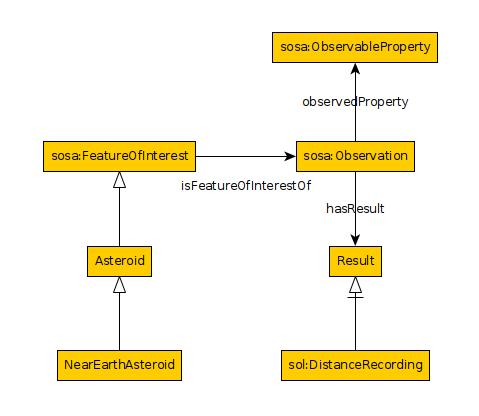
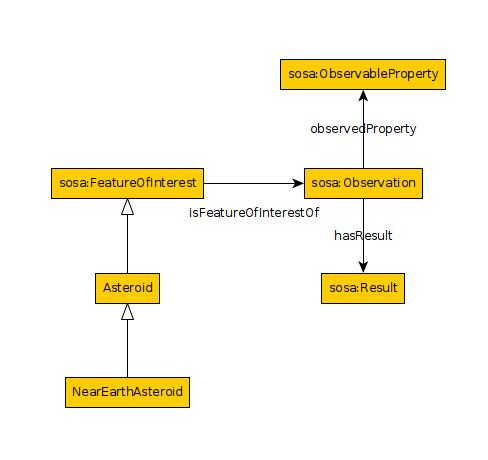
keynotions typo, updated asteroidtype as an observation, TODO:  Observable-Property as observations

Changed region(s): [[0.0877, 0.0625, 0.9353, 0.9375], [0.5846, 0.8125, 0.9061, 0.9375]]

diff --git a/Deliverables/key-notions.md b/Deliverables/key-notions.md
@@ -5,13 +5,13 @@
 The domain of space objects are broken into three subcategories: Artificial Space Objects, Space Weather Phenomena, and Natural Space Objects.  Asteroids exist as a Natural Space Object where object can be further defined as a material object.  An Asteroid is represented by NASA as an object that orbits the sun of the Sol Solar System measuring 33 feet (10 meters) to 329 miles (530 kilometers).  For the SOL of Life, the only celestial body to be concerned with is Asteroid; therefore, the derived understanding begins with an OWL Thing consisting of multiple properties; such as, labeled naming conventions and quantitative measurable components of velocity, semi-major axis, and minimum orbit intersection distance.  Researchers have also predicted properties that benefit exomining operations such as the average profit gained after a mining excavation with consideration of the available valuable materials.  A subsumption is made for Asteroids into Near-Earth Asteroids when their semi-major axis measurement is within a threshold.  The SOSA pattern best reflects the usage of SOL of Life's knowledge graph with respect to the layer of Observations. Asteroids can be represented as a Feature of Interest with an Observation that has Observable Properties.  
 
 ###  ObservableProperty  
-Data that is represented by an Asteroids can be described as Observations from the SOSA pattern which consists of the property that describes the observation along with the value attached.  The description of the property follows SOSA's ObservableProperty pattern, and the value follows SOSA's Result pattern.  With that in mind, the measurable data; such as, mass, velocity, and SMASII Classification, are represnted as an instance of a ObservableProperty.
+Data that is represented by Asteroids can be described as Observations from the SOSA pattern which consists of the property that describes the observation along with the quantifiable value.  The description of the property follows SOSA's ObservableProperty pattern, and the value follows SOSA's Result pattern.  With that in mind, the measurable data; such as, mass, velocity, and SMASII Classification, are represented as an instance of an Observation.
 
-###  DistanceRecording as an ObservableProperty  
+###  DistanceRecording as an Observation  
 The end-goal of SOL of Life is to provide insight at a specific point of time for whether an Asteroid is within a means of distance for exomining companies to travel to for mineral extraction operations.  As such, the spatial coordinates of an Asteroid is less important than the actual distance from Earth, which acts as a baseline for exomining operations.  The distance from Earth is collected every quarter in a 10 year range.  
 
-###  AsteroidType as an ObservableProperty
-The derived elemental composition of an Asteroid is a prediction based from infrared readings as traveling to each individual asteroid remains an unrealistic task.  As such, infrared reflections and readings are compared for similarities against known Earth elements and denote the components from the Asteroid's surface.  The infrared data has been collected to formulate classifications based on similarity of readings.  SOL of Life utilizes the SMASS classification labels in order to connect an Asteroid to the predicted elemental composition.
+###  AsteroidType as an Observation
+The derived elemental composition of an Asteroid is a prediction based from infrared readings as traveling to each individual asteroid remains an unrealistic task.  As such, infrared reflections and readings are compared for similarities against known Earth elements and denote the components from the Asteroid's surface.  The infrared data has been collected to formulate classifications among clusters of all asteroids for similarities of readings.  With respect to the SOSA Observation pattern, the infrared readings produce observable properties of elemental compositions.  The infrared readings and cluster family of similar asteroids result in a SMASSII classification which exists as a literal label.
 
 
 ##  Dataset  
@@ -20,6 +20,9 @@ Source:  [SBDB](https://ssd.jpl.nasa.gov/tools/sbdb_query.html)
 
 Source:  [Sky Live](https://theskylive.com/)
 - Historical and Predictive measurements of celestial bodies given their orbital trajectory can be recorded from the Sky Live tool.
+
+##  SOSA Pattern
+Source: [SOSA](https://www.w3.org/TR/vocab-ssn/)  
 
 ##  DataTypes  
 Source:  [Unified Code for Units of Measure in RDF:  cdt:ucum](https://hal.science/hal-01885337/document)
